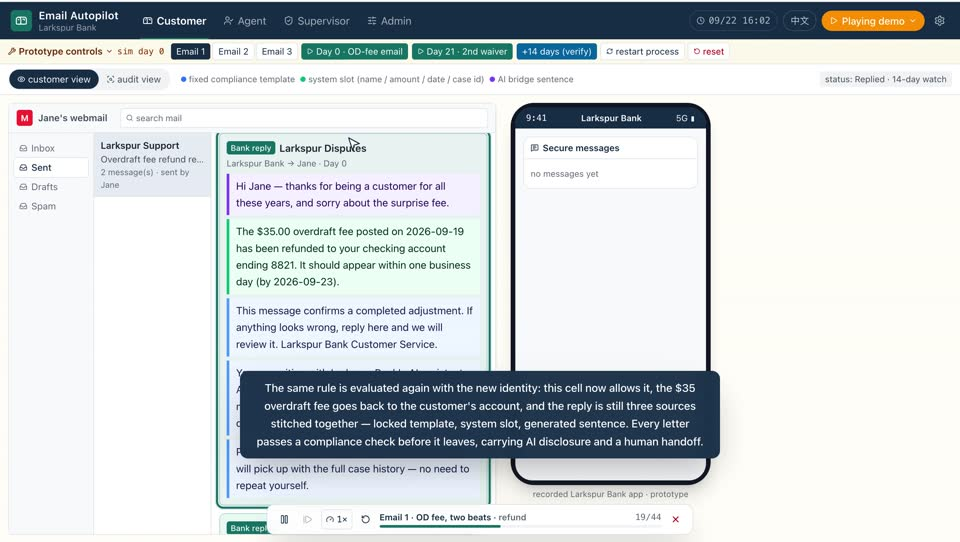
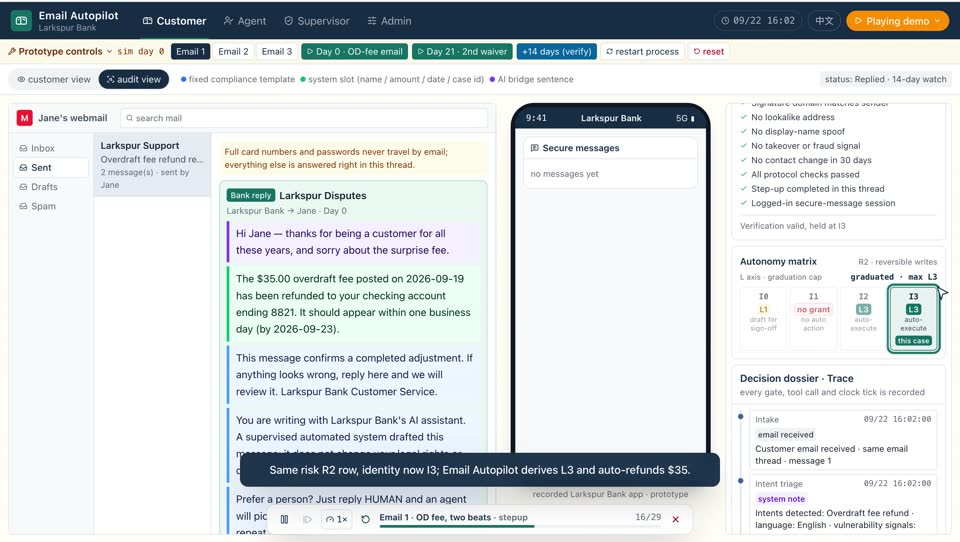
deck: shorten the Identity Assurance clip to the condensed recording
The re-recorded demo 1 runs 1:56 against the 7:19 it replaces — the same
identity-escalation walkthrough, trimmed to one pass. Same encode
settings: 2880x1628 H.264 at CRF 18, audio at 48 kbps mono, taking the
76.9 MB source to 13.8 MB. Both duration labels and both size labels move
with it.

diff --git a/deck-html/index.html b/deck-html/index.html
@@ -1113,9 +1113,9 @@ body.dark svg [fill="#F5B544"]{fill:#F5B544}
   <div class="fig" style="justify-content:center">
     <div class="vcol">
       <div class="vidslot">
-        <div class="ph"><span class="tri">▶</span>Video 1 · Identity Assurance · 7:19</div>
+        <div class="ph"><span class="tri">▶</span>Video 1 · Identity Assurance · 1:56</div>
         <video data-src="assets/clips/demo-1-identity.mp4" poster="assets/shots/poster-1.jpg" controls preload="none" playsinline></video>
-        <button class="vplay" type="button" aria-label="Play video 1, 51 MB"></button>
+        <button class="vplay" type="button" aria-label="Play video 1, 14 MB"></button>
         <button class="fsbtn" type="button">⛶ Full screen</button>
       </div>
       <a class="ytlink" href="https://youtu.be/ux06XNIiH-8" target="_blank" rel="noopener">Watch it on YouTube →</a>
@@ -2311,9 +2311,9 @@ body.dark svg [fill="#F5B544"]{fill:#F5B544}
       <div class="scr">
         <div class="lab"><span class="dot2" style="background:#5FD3BE"></span>Demo 1 · Identity Assurance</div>
         <div class="shot slot">
-          <div class="ph"><span class="tri">▶</span>Video 1 · 7:19</div>
+          <div class="ph"><span class="tri">▶</span>Video 1 · 1:56</div>
           <video data-src="assets/clips/demo-1-identity.mp4" poster="assets/shots/poster-1.jpg" controls preload="none" playsinline></video>
-          <button class="vplay" type="button" aria-label="Play video 1, 51 MB"></button>
+          <button class="vplay" type="button" aria-label="Play video 1, 14 MB"></button>
           <button class="fsbtn" type="button">⛶ Full screen</button>
         </div>
         <a class="ytlink" href="https://youtu.be/ux06XNIiH-8" target="_blank" rel="noopener">Watch it on YouTube</a>
